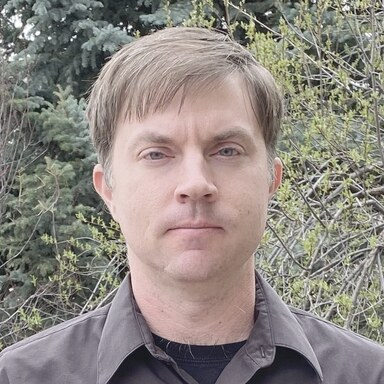
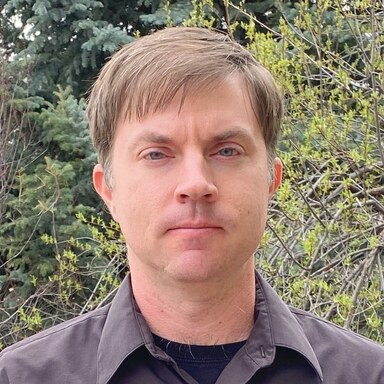
Footer emails always filled in; warmer photo of Matt; job ad shows its URL
- notebook-loader.html: add notebook.js once the page has been read. A
  cached copy could run before the footer existed, leaving its addresses as
  "contact [at] ...".
- people/matthew.jpg: more saturation and a little warmth.
- research-assistant.qmd: the ad's own address, in the facts and under the
  signature, so copied text carries it.

diff --git a/notebook-loader.html b/notebook-loader.html
@@ -8,7 +8,12 @@
     // page with an older cached notebook.js (GitHub Pages caches files for 10 minutes).
     const script = document.createElement("script");
     script.src = `${root}notebook.js?v=${Date.parse(document.lastModified)}`;
-    document.body.append(script);
+    // This loader sits above the footer, and a cached notebook.js can run at
+    // once; add it only when the whole page has been read, so it finds the
+    // footer's email addresses too.
+    const load = () => document.body.append(script);
+    if (document.readyState === "loading") document.addEventListener("DOMContentLoaded", load);
+    else load();
   })();
 </script>
 <!-- Visit counts (GoatCounter): no cookies, no personal data. Ad blockers often
